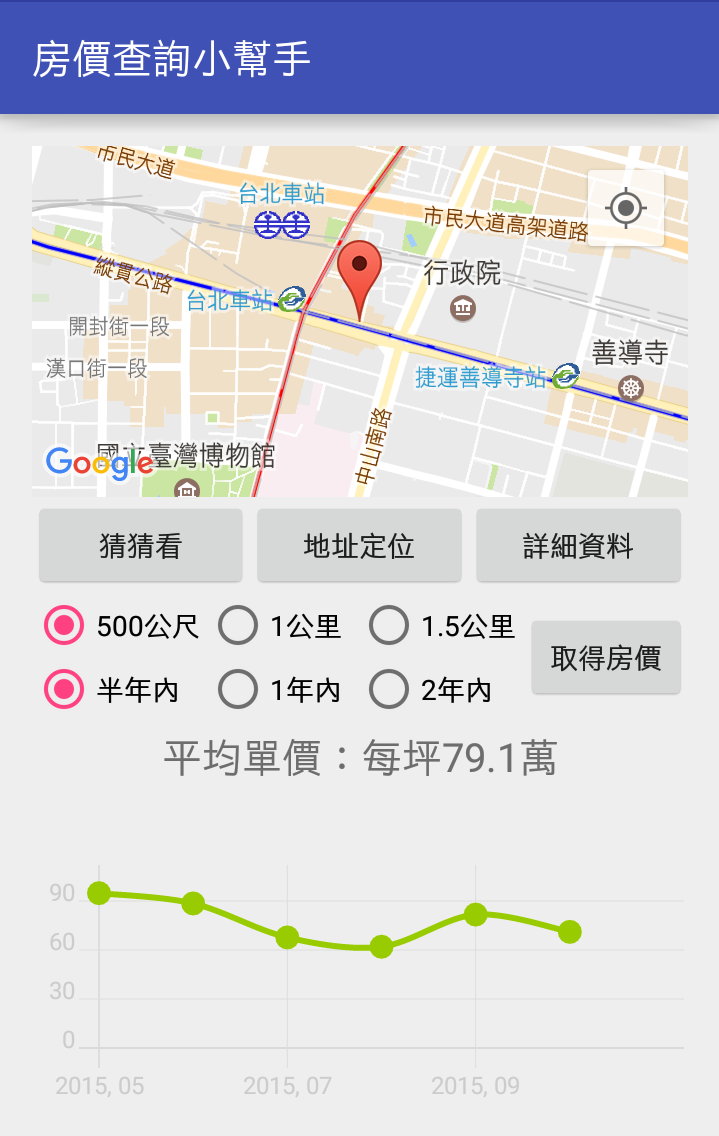
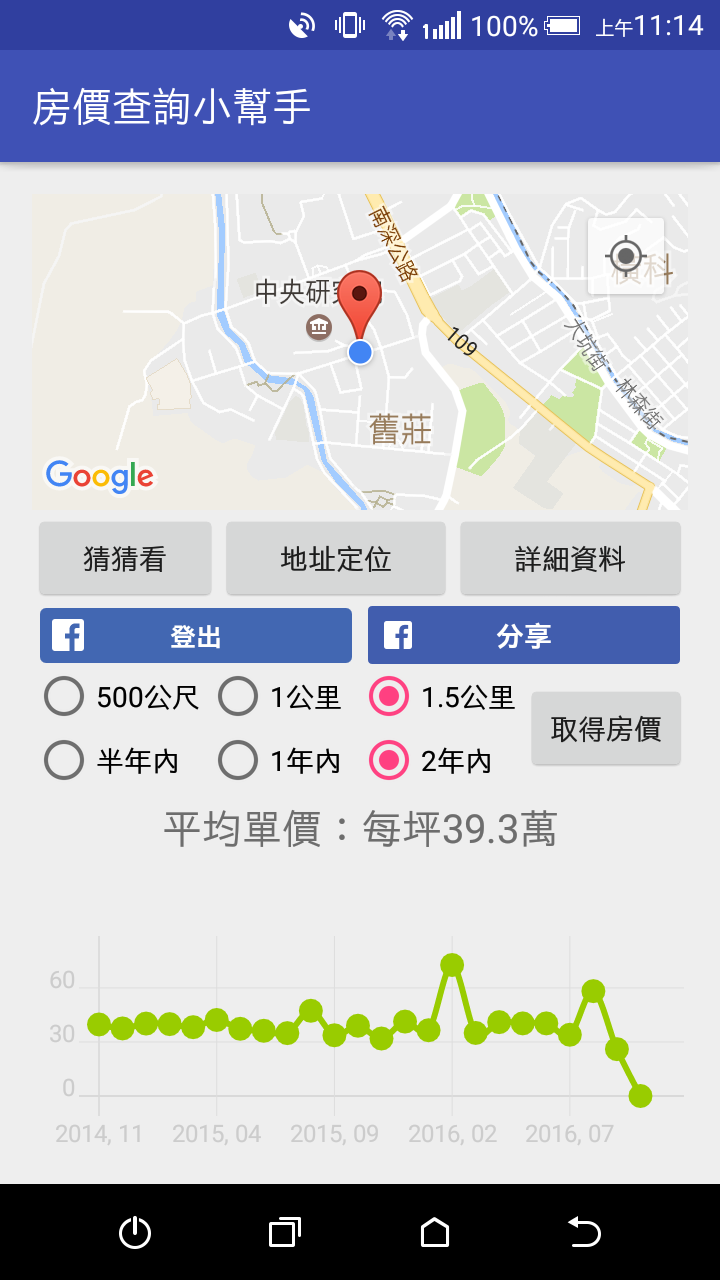
update 房價查詢小幫手 content

diff --git a/房價查詢小幫手.md b/房價查詢小幫手.md
@@ -5,7 +5,9 @@ permalink: /房價查詢小幫手/
 ---
 # 功能說明
   本應用程式提供簡單的房價查詢功能，藉由點選地圖上的位置或輸入關鍵字定位，你可以獲得該位置周遭的房價數據。
-點選詳細資料，你可以看到每一筆交易的明細。你也可以在取得房價之前先猜猜看平均房價。
+點選詳細資料，你可以看到每一筆交易的明細。
+你也可以在取得房價之前先猜猜看平均房價。
+如果有透過Facebook登入，你可以分享房價資訊到Facebook塗鴉牆。
 
 此應用程式之資料來源為[內政部不動產成交案件實際資訊資料供應系統](http://lvr.land.moi.gov.tw/homePage.action){:target="_blank"}。
 
